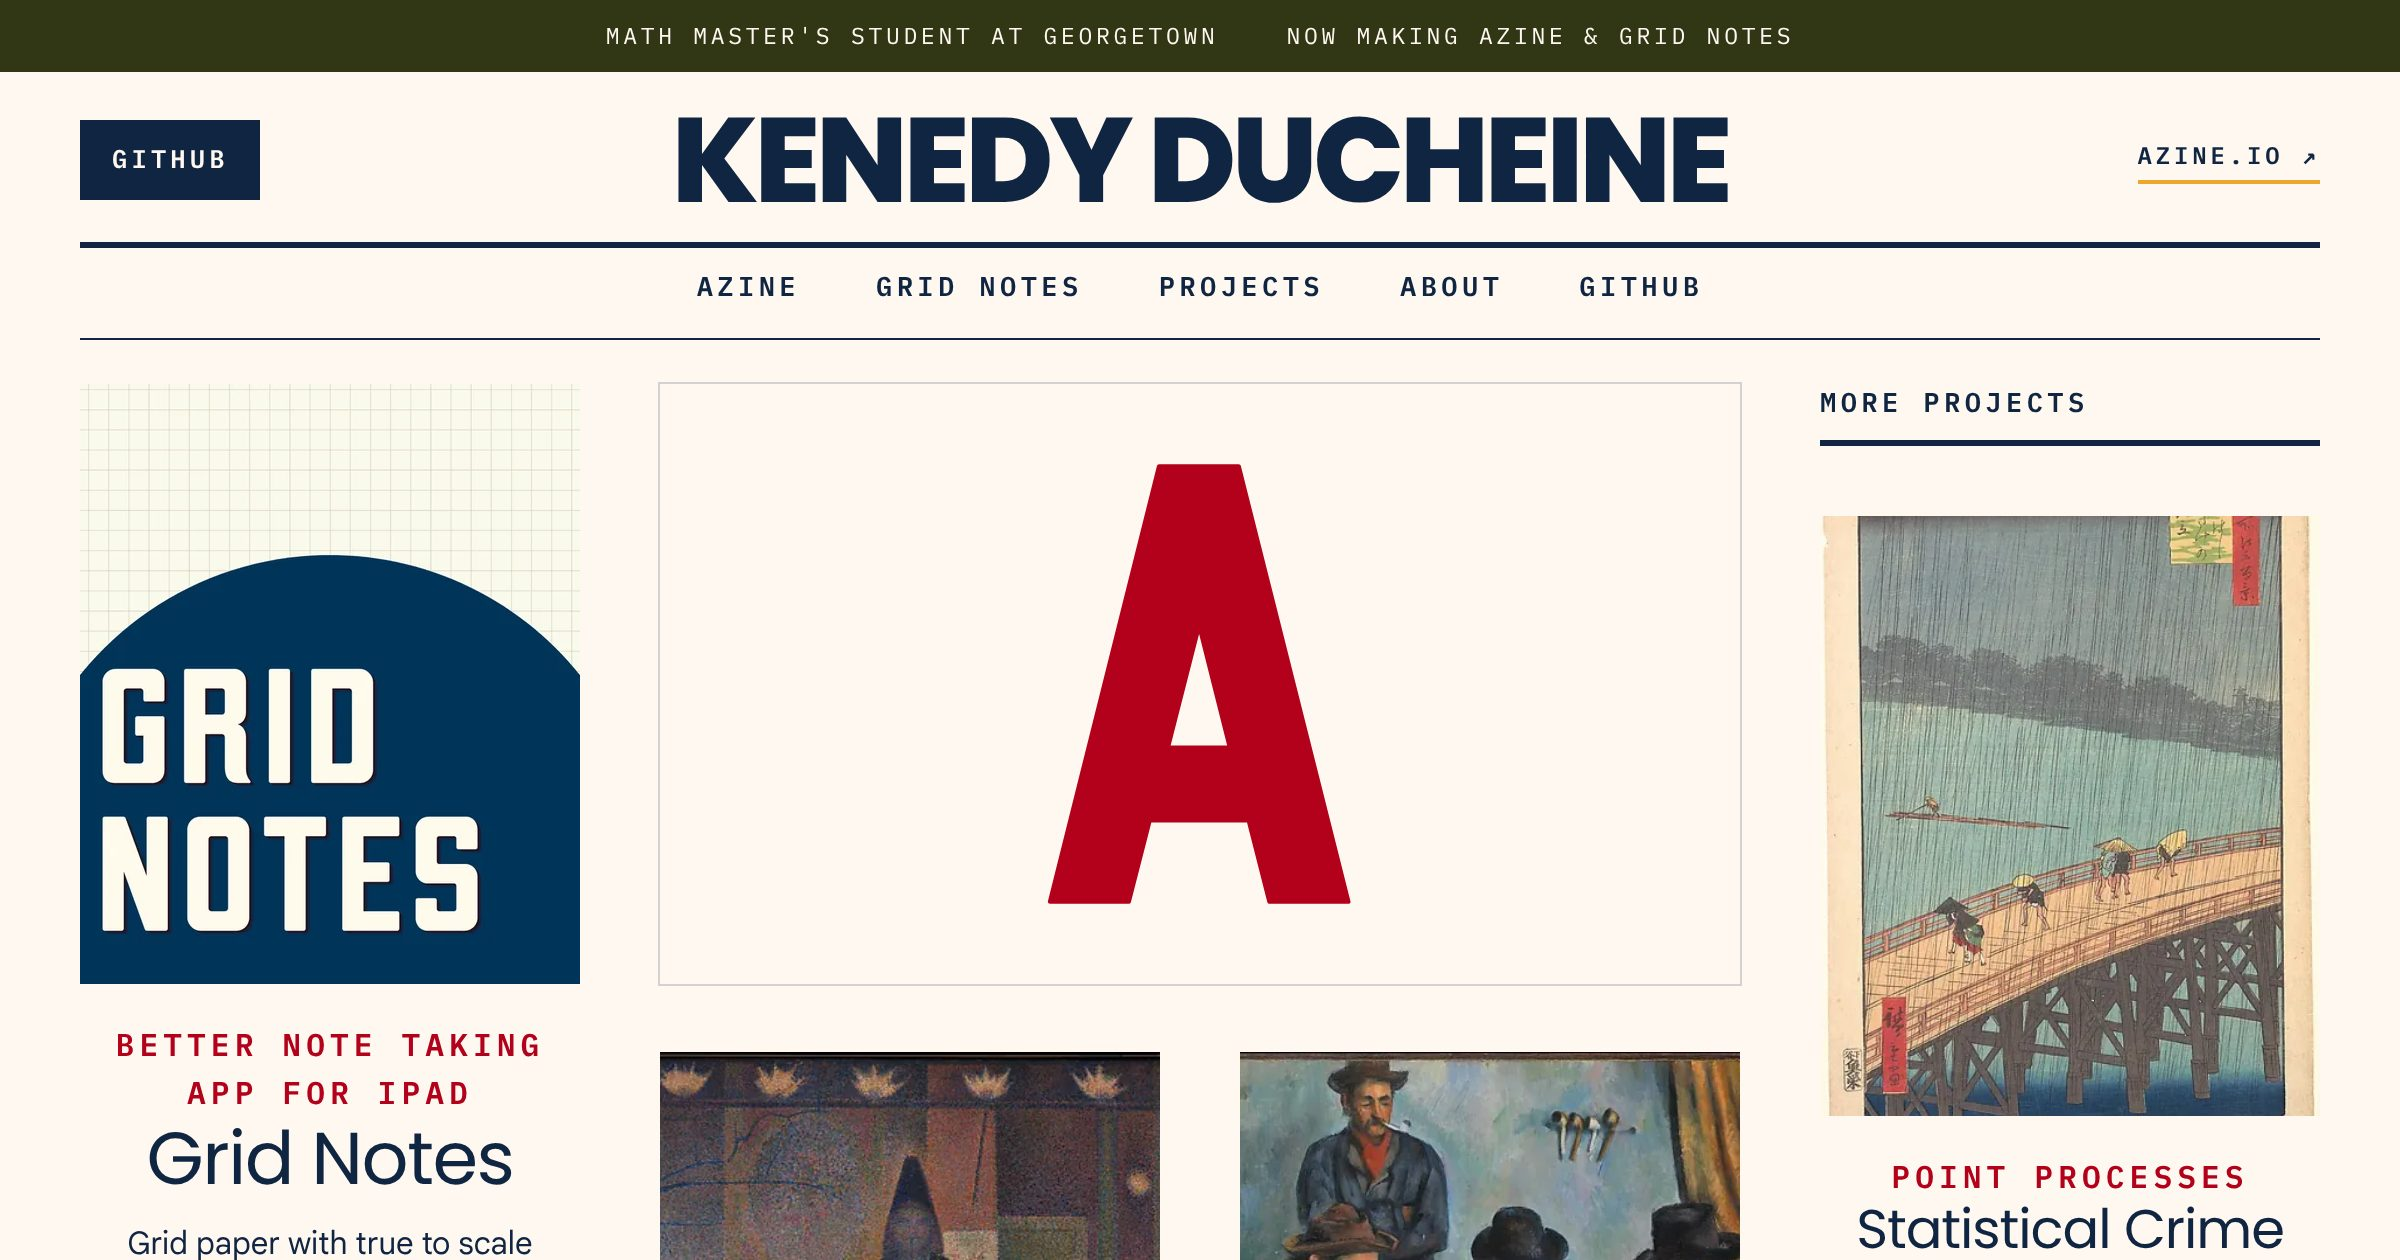
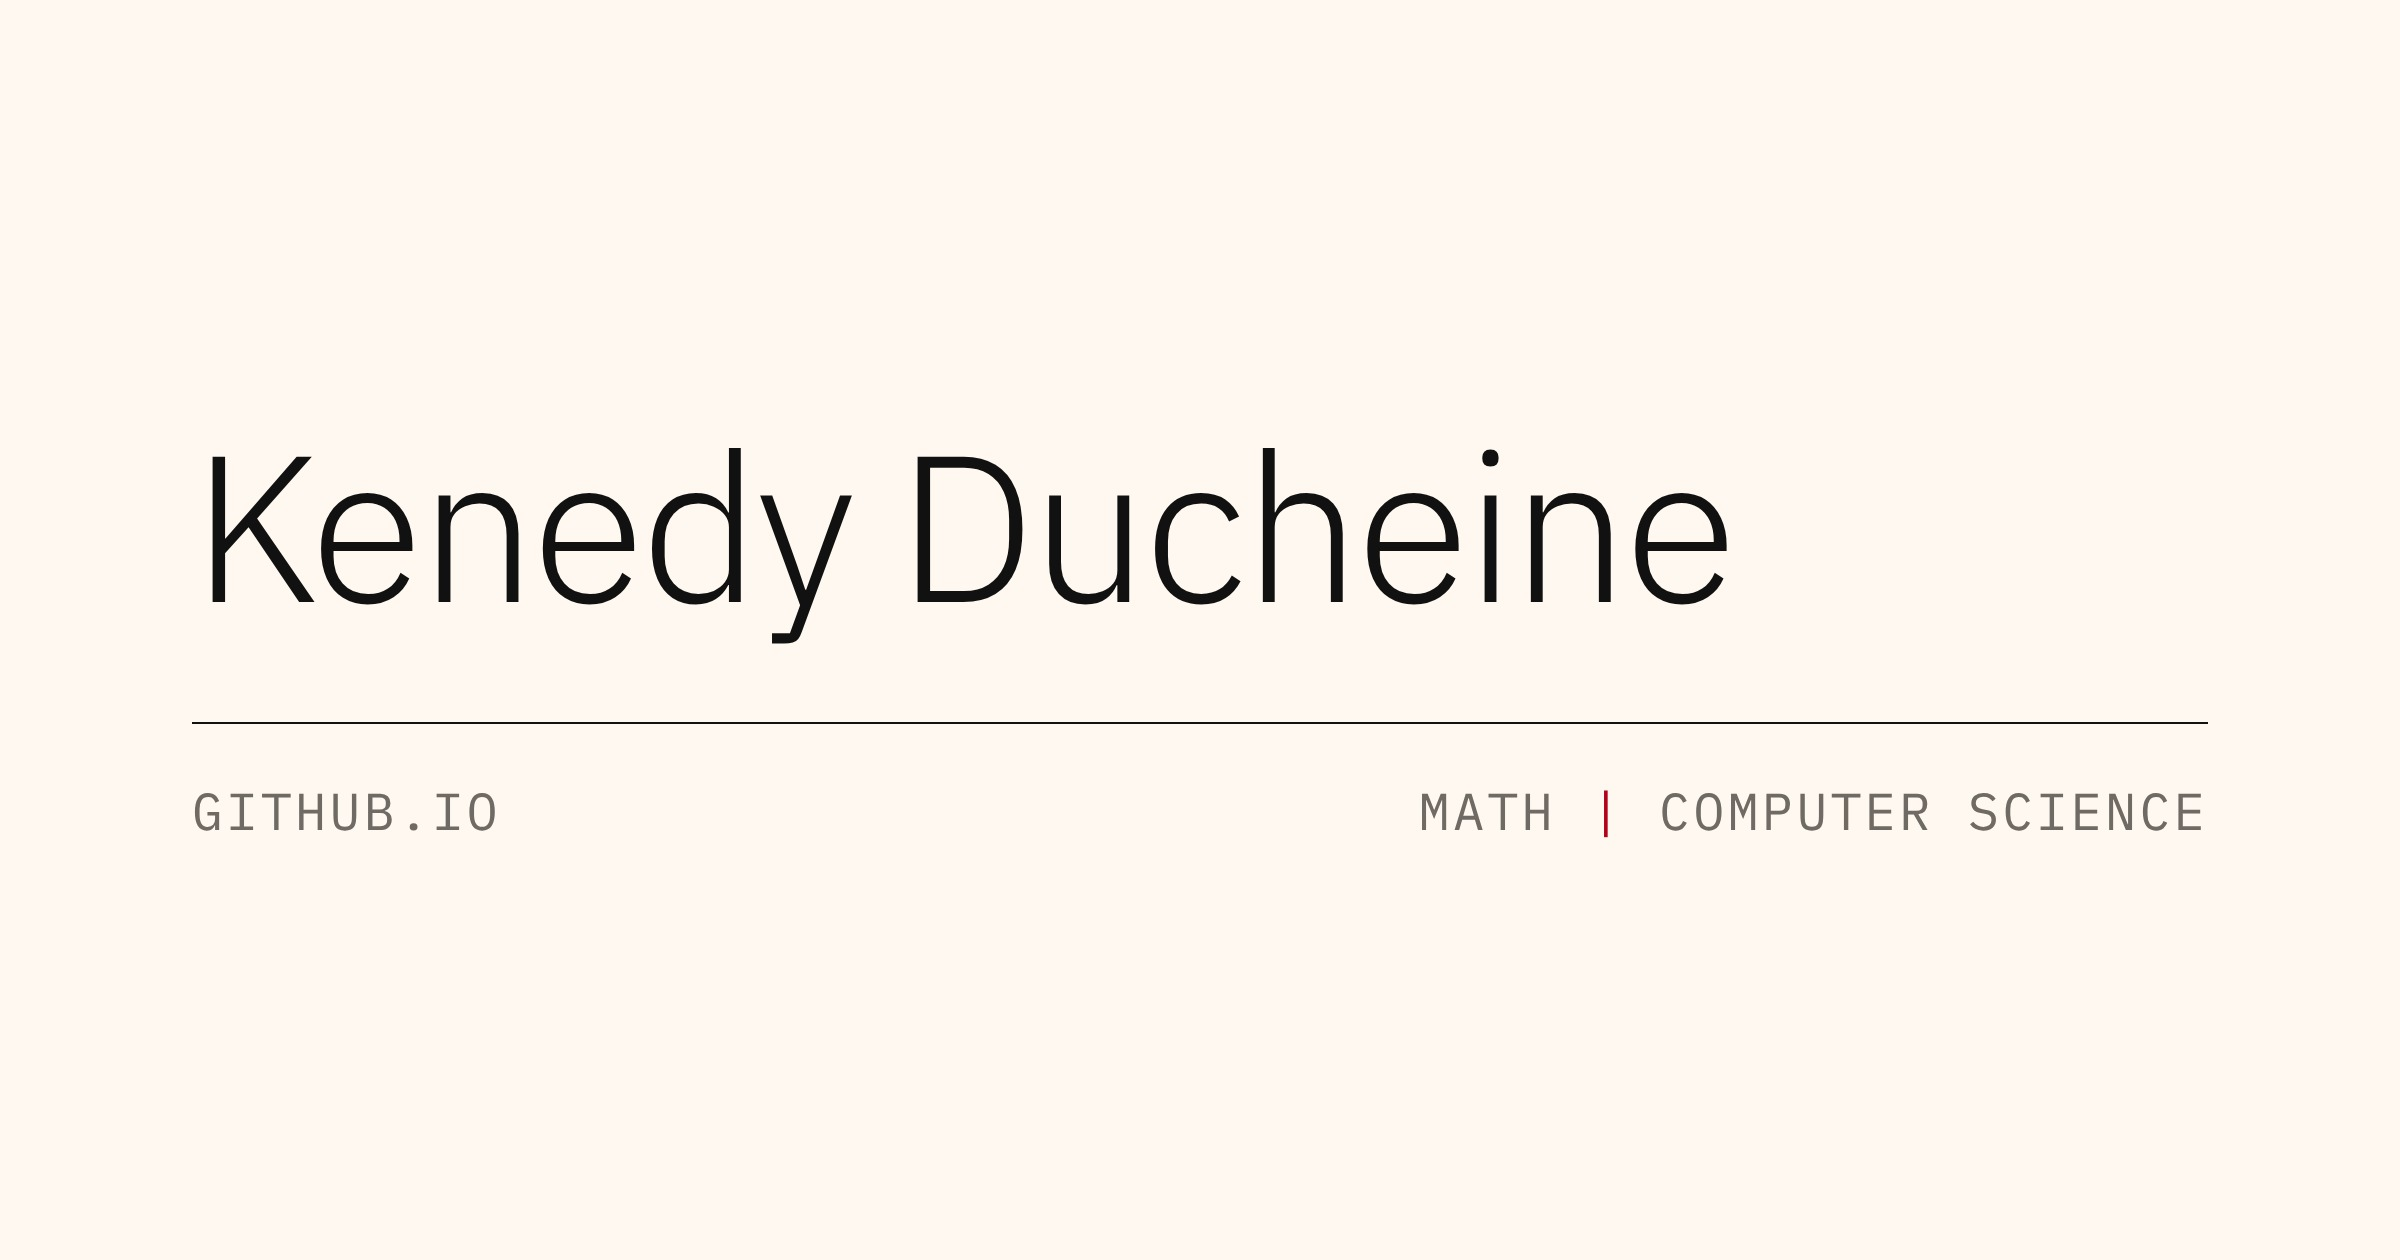
Replace link-preview image with a clean name card
Claude-Session: https://claude.ai/code/session_01PkmCYtUnWQ1merBdu7fFhi

diff --git a/index.html b/index.html
@@ -8,8 +8,8 @@
   <meta name="description" content="Kenedy Ducheine: math and statistics master's student at Georgetown. Math projects on point processes and coding theory; computer science projects including azine, Grid Notes and Operation Negative One.">
   <meta property="og:title" content="Kenedy Ducheine">
   <meta property="og:description" content="Math and computer science projects. Master's student at Georgetown.">
-  <!-- the picture in link previews (texts, Slack, LinkedIn). "?v=2": bump it after replacing assets/og.jpg -->
-  <meta property="og:image" content="https://kenedyducheine.github.io/assets/og.jpg?v=2">
+  <!-- the picture in link previews (texts, Slack, LinkedIn). "?v=3": bump it after replacing assets/og.jpg -->
+  <meta property="og:image" content="https://kenedyducheine.github.io/assets/og.jpg?v=3">
   <meta property="og:image:width" content="2400">
   <meta property="og:image:height" content="1260">
   <meta property="og:type" content="website">

diff --git a/azine.html b/azine.html
@@ -8,9 +8,9 @@
   <meta name="description" content="How azine works: a weekly recommendation board for essays, movies, albums and novels. The summary, the stack, and the system documents.">
   <meta property="og:title" content="azine · Kenedy Ducheine">
   <meta property="og:description" content="How azine works: the summary, the stack, and the system documents.">
-  <!-- the picture in link previews (texts, Slack, LinkedIn). "?v=2": bump it after replacing assets/og.jpg
+  <!-- the picture in link previews (texts, Slack, LinkedIn). "?v=3": bump it after replacing assets/og.jpg
        so apps fetch the new picture instead of a saved copy -->
-  <meta property="og:image" content="https://kenedyducheine.github.io/assets/og.jpg?v=2">
+  <meta property="og:image" content="https://kenedyducheine.github.io/assets/og.jpg?v=3">
   <meta property="og:image:width" content="2400">
   <meta property="og:image:height" content="1260">
   <meta property="og:type" content="website">
